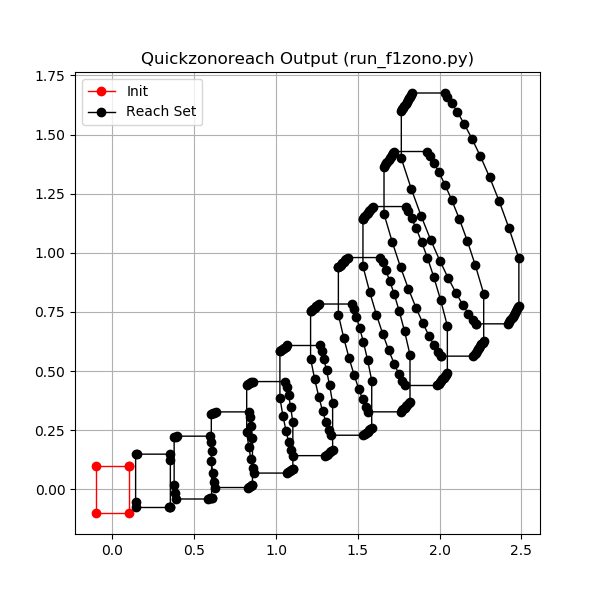
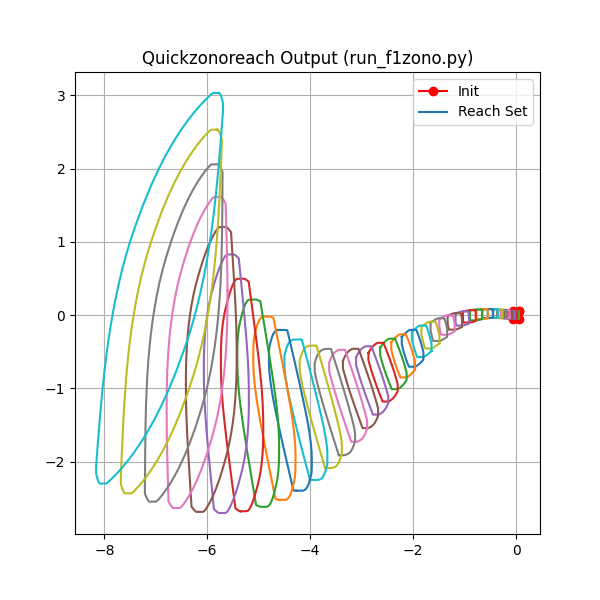
ROSlaunch configuration parameter for runtime mode

diff --git a/reachability/scripts/run_f1zono.py b/reachability/scripts/run_f1zono.py
@@ -4,7 +4,6 @@
 # also used by profiler
 
 from F1QuickZono import F1QuickZono
-from quickzonoreach.zono_projection import ZP_TYPE
 
 #local imports
 from nl_dynamics import F1Dynamics
@@ -21,6 +20,7 @@ import cProfile as profile
 #from pycallgraph import PyCallGraph
 #from pycallgraph.output import GraphvizOutput
 from timeit import Timer
+import numpy as np
 
 gen_callgraph = False
 if gen_callgraph:
@@ -28,25 +28,25 @@ if gen_callgraph:
     from pycallgraph import Config
     from pycallgraph.output import GraphvizOutput
 
-state_uncertainty = [.1, .1, 0]
+state_uncertainty = [.05, .05, 0]
 input_uncertainty = [.1, 3.14/90] # .1m/s , 2deg
 nlDynamics = F1Dynamics()
 stepFunc = partial(nlDynamics.frontStep, nlDynamics)
-inputFunc = lambda t : [ 1+4, -1 * math.cos(2)/4]
+inputFunc = lambda t : [ -4 * t, -1 * math.sin(3.14 * t)/8]
 headless = True
 fy = F1QuickZono() 
 
 #modal wrappers for profiler
 def run_quickzono_CPU(dt, ttime, initialState, profile=1):
-    return run_quickzono(dt, ttime, initialState, profile, ZP_TYPE.CPU)
+    return run_quickzono(dt, ttime, initialState, profile, "CPU")
 
 def run_quickzono_CPU_MP(dt, ttime, initialState, profile=1):
-    return run_quickzono(dt, ttime, initialState, profile, ZP_TYPE.CPU_MP)
+    return run_quickzono(dt, ttime, initialState, profile, "CPU_MP")
 
 def run_quickzono_GPU_HYBRID(dt, ttime, initialState, profile=1):
-    return run_quickzono(dt, ttime, initialState, profile, ZP_TYPE.GPU_Hybrid)
+    return run_quickzono(dt, ttime, initialState, profile, "GPU_HYBRID")
 
-def run_quickzono(dt, ttime, initialState, do_profile=0, runtime_mode=ZP_TYPE.CPU):
+def run_quickzono(dt, ttime, initialState, do_profile=0, runtime_mode="GPU_HYBRID"):
     fy.set_model_params(state_uncertainty, input_uncertainty, "model_hardcode", runtime_mode=runtime_mode)
     sim = simulator.ModelSimulator(dt, ttime, initialState, stepFunc, inputFunc, headless)
 
@@ -87,7 +87,7 @@ if __name__ == "__main__":
     print("Initializing Simulation")
     initialState = [0, 0, 0]
     dt = .05
-    ttime = 1.0
+    ttime = 2.0
 
     if gen_callgraph:
         config = Config(max_depth=15)
@@ -95,23 +95,25 @@ if __name__ == "__main__":
         with PyCallGraph(output=graphviz, config=config):
             zonos = run_quickzono(dt, ttime, initialState)
     else:
-        zonos = run_quickzono(dt, ttime, initialState)
+        zonos = run_quickzono(dt, ttime, initialState, runtime_mode="GPU_HYBRID")
 
 
     xdim = 0
     ydim = 1
 
-    plot = False
+    plot = True
     if plot:
         filename="f1_zonos_noquick.png"
         plt.figure(figsize=(6, 6))
-            
-        zonos[0].plot(col='r-o', label='Init', xdim=xdim, ydim=ydim)
+
+        #zonos = np.array([np.array([np.array(p) for p in z]) for z in zonos])
+        x, y = zip(*zonos[0])
+        plt.plot(x, y, 'r-o', label='Init')
 
         for i, z in enumerate(zonos[1:]):
-            print("Plotting")
             label = 'Reach Set' if i == 0 else None
-            z.plot(label=label, xdim=xdim, ydim=ydim)
+            x, y = zip(*z)
+            plt.plot(x, y, label=label)
 
         plt.title('Quickzonoreach Output (run_f1zono.py)')
         plt.legend()

diff --git a/reachability/scripts/zono_node.py b/reachability/scripts/zono_node.py
@@ -21,10 +21,11 @@ class ZONO_Node:
         #self.core = None        #core object for running hylaa with settings
 
         #---------------------------------------------------------
-        #                   HYLAA Params
+        #                   REACHABILITY Params
         #---------------------------------------------------------
         self.predictions = None #predictions from MPC
         self.reachability_horizon = rospy.get_param("/zono_node/horizon", 0)
+        self.runtime_mode = rospy.get_param("/zono_node/runtime_mode", "CPU")
         self.dt = None          #dt from MPC metdata
         self.mpc_horizon = None #simulation horizon from MPC metadata
 
@@ -49,10 +50,10 @@ class ZONO_Node:
 
 
         #---------------------------------------------------------
-        #                   HYLAA Calling Vars
+        #                   QUICKZONO Calling Vars
         #---------------------------------------------------------
         self.QuickZono = F1QuickZono()
-        self.QuickZono.set_model_params(self.state_uncertainty, self.input_uncertainty, "model_hardcode")
+        self.QuickZono.set_model_params(self.state_uncertainty, self.input_uncertainty, "model_hardcode", runtime_mode=self.runtime_mode)
 
         #custom interval in ms or 0=maximum speed
         self.reachability_interval = rospy.get_param("/zono_node/interval", 0)

diff --git a/reachability/scripts/F1QuickZono.py b/reachability/scripts/F1QuickZono.py
@@ -40,7 +40,7 @@ class F1QuickZono:
         self.ZP = None 
 
 
-    def set_model_params(self, state_uncertainty, input_uncertainty, dynamics_module="kinematics_model", runtime_mode=ZP_TYPE.CPU):
+    def set_model_params(self, state_uncertainty, input_uncertainty, dynamics_module="kinematics_model", runtime_mode="CPU"):
         model_gen = importlib.import_module(dynamics_module)
         self.modeList = []
         self.state_uncertainty = state_uncertainty
@@ -49,7 +49,7 @@ class F1QuickZono:
         self.model.setInputUncertainty(input_uncertainty)
         
         
-        self.ZP = get_ZP_instance(runtime_mode)
+        self.ZP = get_ZP_instance(ZP_TYPE[runtime_mode])
         return 1
     
     def run(self, predictions, profile=False):
